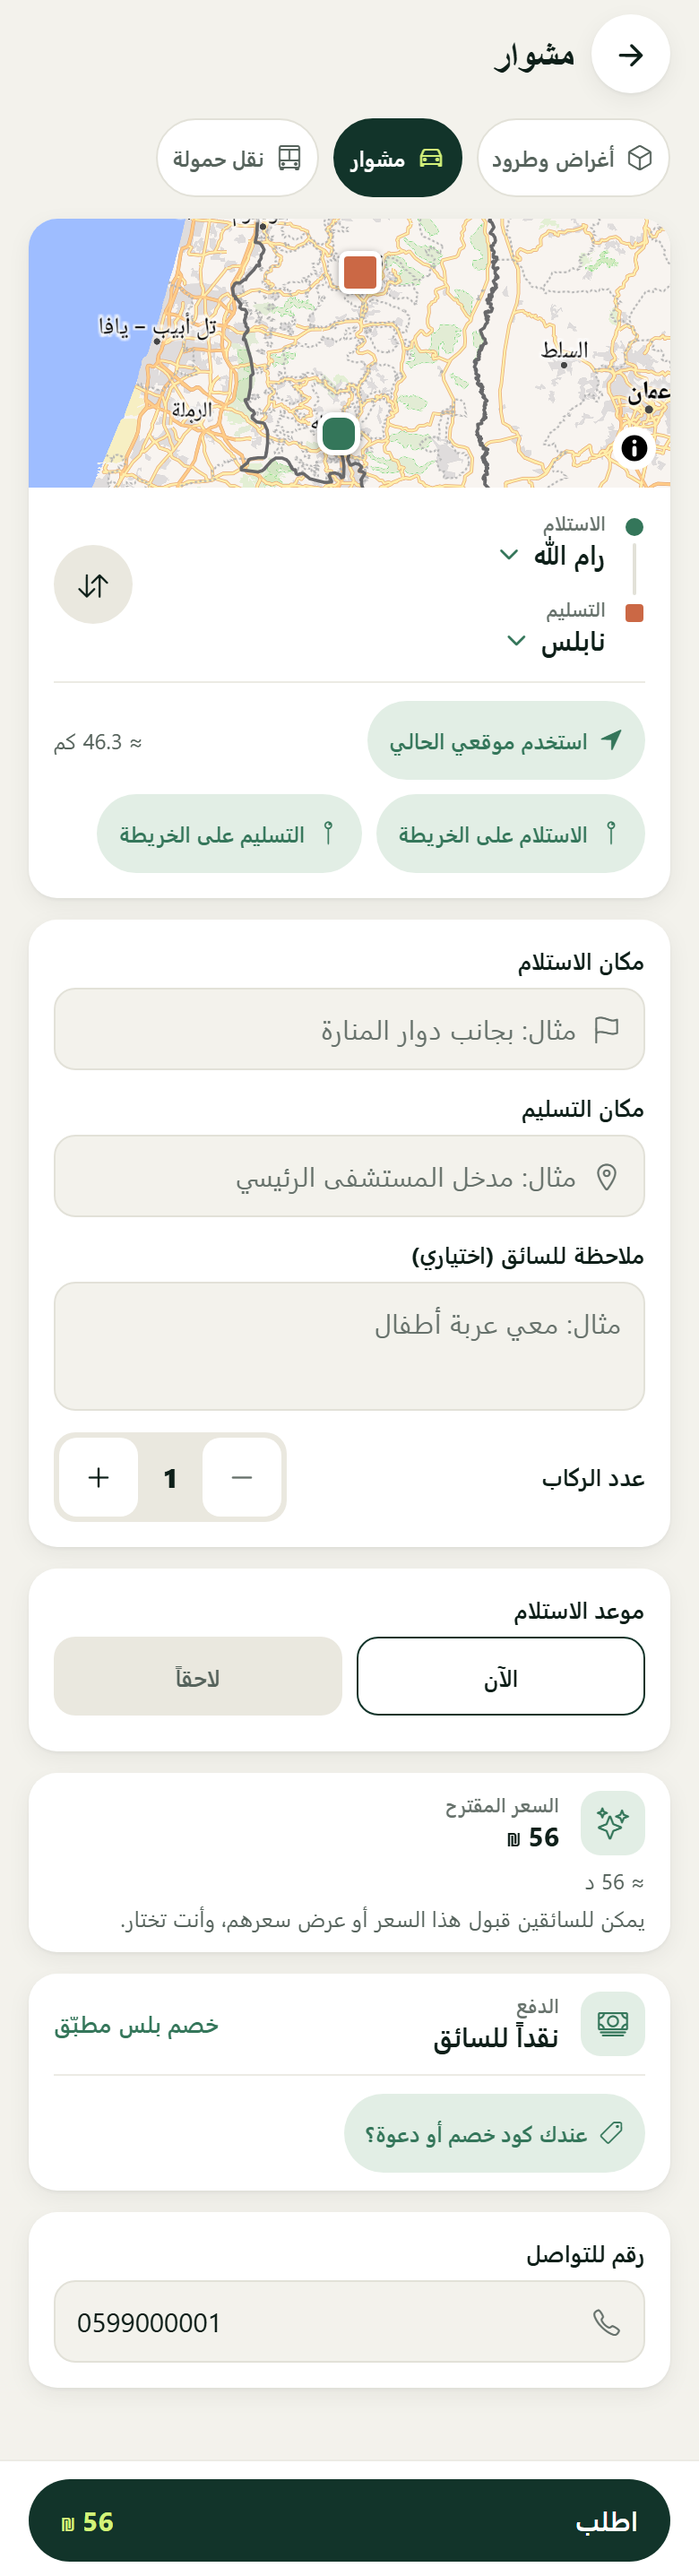
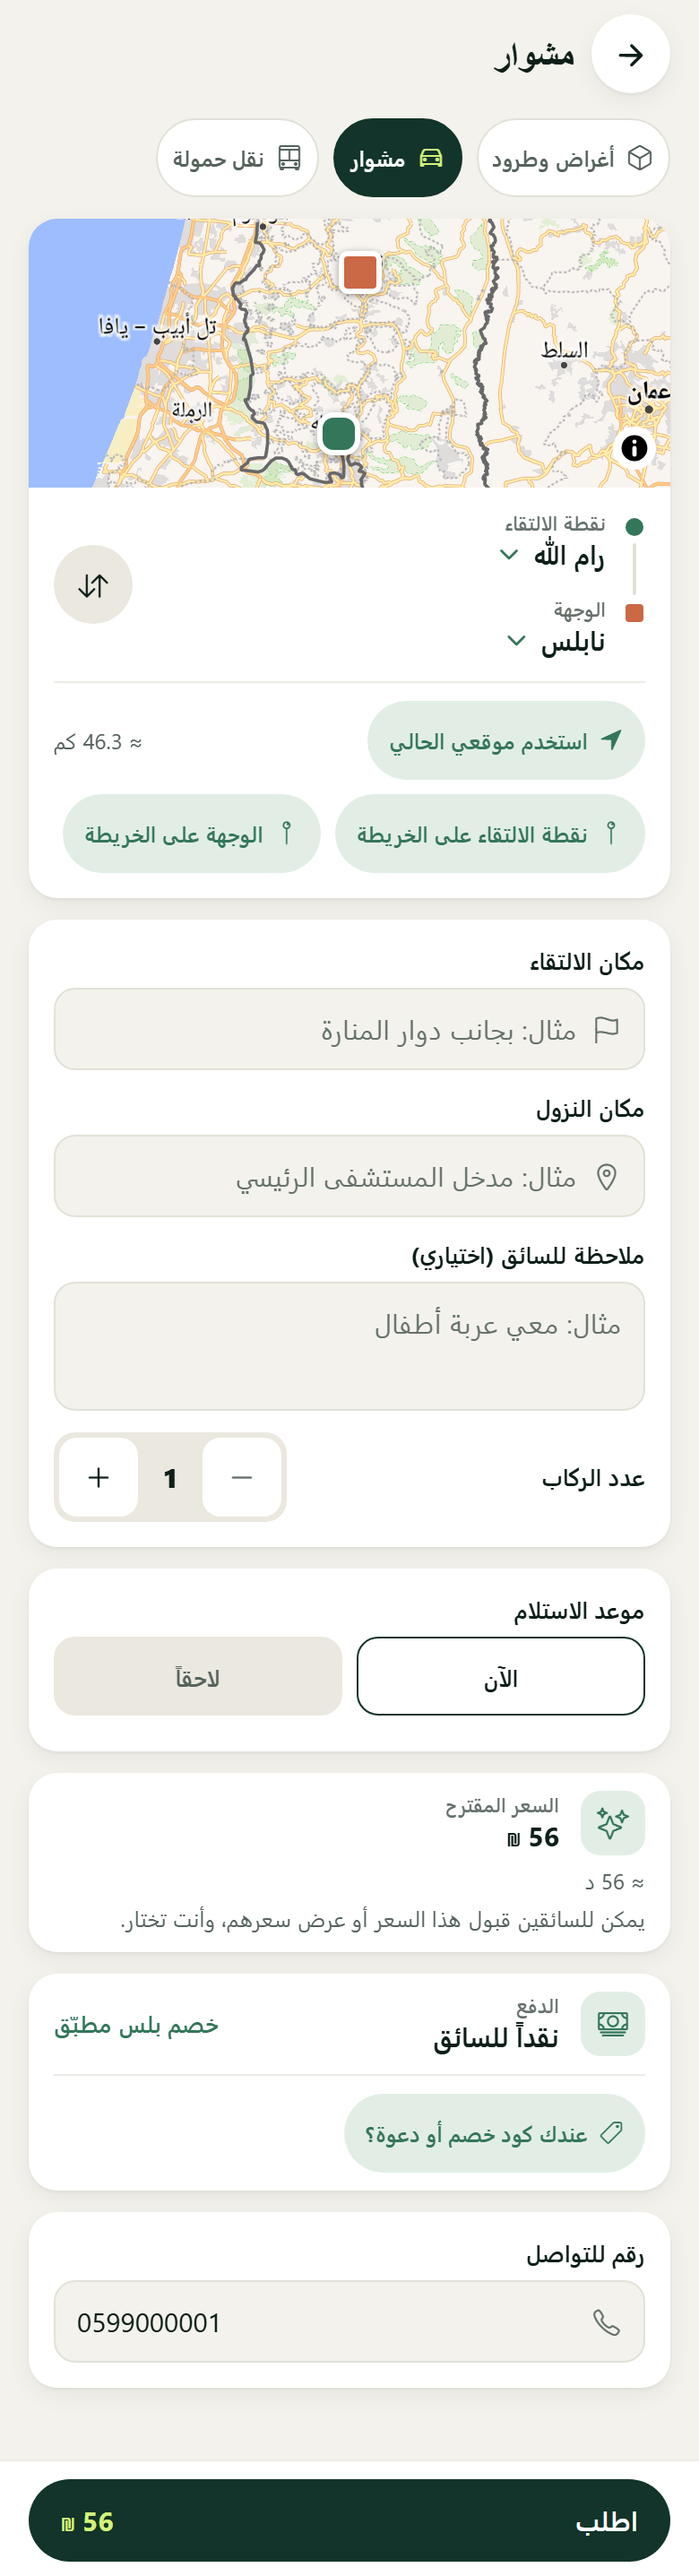
Rides name their ends as a meeting point and destination
Progress bar, route lines, the booking form's map buttons and spot
fields now say meeting point / destination for a ride instead of
pickup / handover. The track page drops its header badge, which only
echoed the status the card heads with.

diff --git a/src/app/book.tsx b/src/app/book.tsx
@@ -22,6 +22,8 @@ export default function Book() {
   const { c, language, money, err, row, rtl } = useCopy();
   const { time } = useFormat();
   const [service, setService] = useState<Service>(params.service === 'ride' || params.service === 'freight' ? params.service : 'parcel');
+  // a ride meets its passenger and drops them off: its place words differ from a parcel's
+  const word = (k: 'pickupNote' | 'dropoffNote' | 'pickupOnMap' | 'dropoffOnMap') => service === 'ride' ? c[`${k}_ride` as const] : c[k];
   const [pickupCity, setPickupCity] = useState<CityId>(isCity(params.from) ? params.from : 'ramallah');
   const [dropoffCity, setDropoffCity] = useState<CityId>(isCity(params.to) ? params.to : 'nablus');
   const [pickupPoint, setPickupPoint] = useState<Point | null>(null);
@@ -277,7 +279,7 @@ export default function Book() {
           <RouteCheckpoints avoids={preview?.avoids ?? []} through={preview?.through ?? []} />
         </View>
         <View style={rtl ? { paddingLeft: 48 } : { paddingRight: 48 }}>
-          <RouteLine from={city(pickupCity)[language]} to={city(dropoffCity)[language]} onFrom={locked ? undefined : () => setPicker('pickup')} onTo={locked ? undefined : () => setPicker('dropoff')} />
+          <RouteLine from={city(pickupCity)[language]} to={city(dropoffCity)[language]} onFrom={locked ? undefined : () => setPicker('pickup')} onTo={locked ? undefined : () => setPicker('dropoff')} ride={service === 'ride'} />
           <View style={[styles.swap, rtl ? { left: 0 } : { right: 0 }]}>
             <IconButton icon="swap-vertical" label={c.swap} tone="muted" disabled={locked}
               onPress={() => { haptic.tap(); setPickupCity(dropoffCity); setDropoffCity(pickupCity); setPickupPoint(dropoffPoint); setDropoffPoint(pickupPoint); }} />
@@ -295,7 +297,7 @@ export default function Book() {
         {canPin && <Row gap={8} style={{ marginTop: 8, flexWrap: 'wrap' }}>
           {(['pickup', 'dropoff'] as const).map(which => {
             const set = which === 'pickup' ? pickupPoint : dropoffPoint;
-            const label = which === 'pickup' ? c.pickupOnMap : c.dropoffOnMap;
+            const label = word(which === 'pickup' ? 'pickupOnMap' : 'dropoffOnMap');
             return <Press key={which} accessibilityLabel={label} disabled={locked} onPress={() => { haptic.tap(); setLocationError(''); setPinFor(which); }}>
               <Row gap={6} style={styles.chip}>
                 <Ionicons name={set ? 'checkmark-circle' : 'pin-outline'} size={14} color={palette.olive} />
@@ -315,9 +317,9 @@ export default function Book() {
 
 
       <Card>
-        <Field label={c.pickupNote} icon="flag-outline" value={pickupNote} onChangeText={edit('pickupNote', setPickupNote)} placeholder={c.pickupHint} error={invalid.pickupNote} disabled={locked} maxLength={200} />
+        <Field label={word('pickupNote')} icon="flag-outline" value={pickupNote} onChangeText={edit('pickupNote', setPickupNote)} placeholder={c.pickupHint} error={invalid.pickupNote} disabled={locked} maxLength={200} />
         {isCustomer && !locked && <SavePlace city={pickupCity} note={pickupNote} saved={places.saved} onSave={savePlace} />}
-        <Field label={c.dropoffNote} icon="location-outline" value={dropoffNote} onChangeText={edit('dropoffNote', setDropoffNote)} placeholder={c.dropoffHint} error={invalid.dropoffNote} disabled={locked} maxLength={200} />
+        <Field label={word('dropoffNote')} icon="location-outline" value={dropoffNote} onChangeText={edit('dropoffNote', setDropoffNote)} placeholder={c.dropoffHint} error={invalid.dropoffNote} disabled={locked} maxLength={200} />
         {isCustomer && !locked && <SavePlace city={dropoffCity} note={dropoffNote} saved={places.saved} onSave={savePlace} />}
         {service !== 'ride' && <>
           <Field label={c.recipientPhone} icon="call-outline" value={recipientPhone} onChangeText={edit('recipientPhone', setRecipientPhone)} placeholder={c.recipientPhoneHint}
@@ -414,7 +416,7 @@ export default function Book() {
       <ErrorText>{error}</ErrorText>
     </Screen>
 
-    {pinFor && <PinSheet title={pinFor === 'pickup' ? c.pickupOnMap : c.dropoffOnMap}
+    {pinFor && <PinSheet title={word(pinFor === 'pickup' ? 'pickupOnMap' : 'dropoffOnMap')}
       start={(pinFor === 'pickup' ? pickupPoint : dropoffPoint) ?? city(pinFor === 'pickup' ? pickupCity : dropoffCity)}
       onClose={() => setPinFor(null)} onConfirm={point => {
         const near = nearestCity(point);
@@ -426,7 +428,7 @@ export default function Book() {
         setPinFor(null);
       }} />}
 
-    <CityPicker open={picker !== null && !locked} title={picker === 'pickup' ? c.pickup : c.dropoff} selected={picker === 'pickup' ? pickupCity : dropoffCity}
+    <CityPicker open={picker !== null && !locked} title={service === 'ride' ? (picker === 'pickup' ? c.pickup_ride : c.dropoff_ride) : picker === 'pickup' ? c.pickup : c.dropoff} selected={picker === 'pickup' ? pickupCity : dropoffCity}
       places={places} onForget={id => confirm(c.forgetPlaceConfirm, () => api<Places>(`/me/places/${id}`, undefined, 'DELETE').then(setPlaces)
         .catch(e => { setPicker(null); setError(err(e)); }), c.forgetPlace, c.no)} // the sheet would hide the error
       onPlace={(id, note) => {

diff --git a/src/app/track/[token].tsx b/src/app/track/[token].tsx
@@ -7,9 +7,9 @@ import { useApi } from '../../api';
 import { locationState } from '../../location-state';
 import { etaRange } from '../../map-math';
 import { city, ltr, type CityId, type OrderStatus, type Service, type Vehicle } from '../../model';
-import { RouteLine, ServiceIcon } from '../../parts';
+import { RouteLine, ServiceIcon, statusText } from '../../parts';
 import RouteMap from '../../route-map';
-import { Badge, Button, Card, Empty, fill, Header, Loading, palette, Row, Screen, Txt, useCopy } from '../../ui';
+import { Button, Card, Empty, fill, Header, Loading, palette, Row, Screen, Txt, useCopy } from '../../ui';
 
 type Tracking = { orderCode: string; status: OrderStatus; service: Service; pickupCity: CityId; dropoffCity: CityId; updatedAt: number;
   driver: { firstName: string; vehicle: Vehicle | null } | null;
@@ -34,7 +34,7 @@ export default function TrackScreen() {
   const location = data.driverLocation && freshness && !freshness.stale ? { ...data.driverLocation, ageSeconds: freshness.ageSeconds } : null;
   const age = location?.ageSeconds ?? 0;
   return <Screen>
-    <Header title={c.trackTitle} subtitle={ltr(data.orderCode)} right={<Badge label={c[data.status]} status={data.status} />} />
+    <Header title={c.trackTitle} subtitle={ltr(data.orderCode)} />{/* the card below heads with the status; a header badge only echoed it */}
     <View style={{ borderRadius: 16, overflow: 'hidden', marginBottom: 12 }}>
       <RouteMap pickup={from} dropoff={to} focus={data.status === 'in_transit' ? 'dropoff' : 'pickup'} pickupTitle={from[language]} dropoffTitle={to[language]}
         driver={location} driverTitle={data.driver?.firstName} road={etaData?.road} approach={location ? etaData?.approach : null} />
@@ -42,9 +42,9 @@ export default function TrackScreen() {
     <Card>
       <Row gap={10} style={{ marginBottom: 10 }}>
         <ServiceIcon service={data.service} size={28} />
-        <Txt variant="h2" style={{ flex: 1 }}>{c[data.status]}</Txt>
+        <Txt variant="h2" style={{ flex: 1 }}>{statusText(c, data)}</Txt>
       </Row>
-      <RouteLine from={from[language]} to={to[language]} />
+      <RouteLine from={from[language]} to={to[language]} ride={data.service === 'ride'} />
       {data.driver && <Txt style={{ marginTop: 10 }}>{data.driver.vehicle ? `${data.driver.firstName} · ${c[data.driver.vehicle]}` : data.driver.firstName}</Txt>}
       {location && eta != null && <Txt variant="title" style={{ marginTop: 10 }}>{fill(data.status === 'in_transit'
         ? delayed ? c.etaToDropoffSlow : c.etaToDropoff

diff --git a/src/copy.ts b/src/copy.ts
@@ -146,6 +146,8 @@ const ar = {
   in_transit: 'في الطريق للتسليم',
   completed: 'تم التوصيل',
   // a ride carries people: its trip states read as a trip, not a delivery (statusText in parts.tsx)
+  assigned_ride: 'السائق في الطريق لنقطة الالتقاء',
+  at_pickup_ride: 'السائق عند نقطة الالتقاء',
   in_transit_ride: 'في الطريق إلى الوجهة',
   completed_ride: 'انتهت الرحلة',
   cancelled: 'ملغي',
@@ -575,6 +577,12 @@ const ar = {
   tripProgress: 'مراحل الطلب',
   pickup: 'الاستلام',
   dropoff: 'التسليم',
+  pickup_ride: 'نقطة الالتقاء', // a passenger is met, not received or handed over
+  dropoff_ride: 'الوجهة',
+  pickupNote_ride: 'مكان الالتقاء',
+  dropoffNote_ride: 'مكان النزول',
+  pickupOnMap_ride: 'نقطة الالتقاء على الخريطة',
+  dropoffOnMap_ride: 'الوجهة على الخريطة',
   earnLabel: 'حصّتك',
   earningsNote: 'مبالغ محسوبة للطلبات المكتملة. التحصيل والدفع غير مؤكّدين هنا.',
   // errors
@@ -791,6 +799,8 @@ const en: Copy = {
   at_pickup: 'Driver at pickup',
   in_transit: 'On the way',
   completed: 'Delivered',
+  assigned_ride: 'Driver heading to pickup',
+  at_pickup_ride: 'Driver at pickup',
   in_transit_ride: 'On the way',
   completed_ride: 'Trip completed',
   cancelled: 'Cancelled',
@@ -1207,6 +1217,12 @@ const en: Copy = {
   tripProgress: 'Order progress',
   pickup: 'Pickup',
   dropoff: 'Drop-off',
+  pickup_ride: 'Pickup',
+  dropoff_ride: 'Destination',
+  pickupNote_ride: 'Meeting spot',
+  dropoffNote_ride: 'Drop-off spot',
+  pickupOnMap_ride: 'Pickup on map',
+  dropoffOnMap_ride: 'Destination on map',
   earnLabel: 'Your share',
   earningsNote: 'Calculated for completed jobs. Collection and payout are not confirmed here.',
   err_network: 'Can’t reach the server. Check your connection.',

diff --git a/src/app/order/[id].tsx b/src/app/order/[id].tsx
@@ -224,8 +224,8 @@ export default function OrderScreen() {
           {steps.map((s, i) => <View key={s} style={[styles.segment, i <= step && { backgroundColor: palette.olive }]} />)}
         </View>
         <Row style={{ justifyContent: 'space-between', marginTop: 6 }}>
-          <Txt variant="micro">{c.pickup}</Txt>
-          <Txt variant="micro">{c.dropoff}</Txt>
+          <Txt variant="micro">{order.service === 'ride' ? c.pickup_ride : c.pickup}</Txt>
+          <Txt variant="micro">{order.service === 'ride' ? c.dropoff_ride : c.dropoff}</Txt>
         </Row>
         {next && <Txt variant="caption" style={{ marginTop: 10 }}>{next}</Txt>}
         {order.safetyHold && order.safetyReport?.status !== 'open' && <View accessibilityLiveRegion="polite">
@@ -294,7 +294,7 @@ export default function OrderScreen() {
 
     <Appear index={5}>
       <Card>
-        <RouteLine from={from[language]} to={to[language]} fromNote={order.pickupNote} toNote={order.dropoffNote} />
+        <RouteLine from={from[language]} to={to[language]} fromNote={order.pickupNote} toNote={order.dropoffNote} ride={order.service === 'ride'} />
         <View style={styles.divider}>
           {!!order.detail && <Detail label={c.details} value={order.detail} />}
           <Detail label={order.service === 'ride' ? c.passengers : c.size} value={order.service === 'ride' ? order.option : c[order.option as 'small']} />

diff --git a/src/parts.tsx b/src/parts.tsx
@@ -38,8 +38,8 @@ export function ServiceIcon({ service, size = 40 }: { service: Service; size?: n
 }
 
 // Pickup (olive dot) joined to drop-off (clay square): the route spine used on booking, trip and job screens.
-export function RouteLine({ from, to, fromNote, toNote, onFrom, onTo }: {
-  from: string; to: string; fromNote?: string; toNote?: string; onFrom?: () => void; onTo?: () => void;
+export function RouteLine({ from, to, fromNote, toNote, onFrom, onTo, ride }: {
+  from: string; to: string; fromNote?: string; toNote?: string; onFrom?: () => void; onTo?: () => void; ride?: boolean;
 }) {
   const { c, row } = useCopy();
   const stop = (label: string, place: string, note: string | undefined, first: boolean, onPress?: () => void) => {
@@ -60,8 +60,8 @@ export function RouteLine({ from, to, fromNote, toNote, onFrom, onTo }: {
     return onPress ? <Press accessibilityLabel={`${label}: ${place}`} onPress={onPress}>{body}</Press> : body;
   };
   return <View>
-    {stop(c.pickup, from, fromNote, true, onFrom)}
-    {stop(c.dropoff, to, toNote, false, onTo)}
+    {stop(ride ? c.pickup_ride : c.pickup, from, fromNote, true, onFrom)}
+    {stop(ride ? c.dropoff_ride : c.dropoff, to, toNote, false, onTo)}
   </View>;
 }
 

diff --git a/src/app/driver/index.tsx b/src/app/driver/index.tsx
@@ -150,7 +150,7 @@ export default function Jobs() {
               <Ionicons name="calendar-outline" size={14} color={palette.olive} />
               <Txt variant="label" style={{ flex: 1 }}>{fill(c.pickupAt, { t: time(order.scheduledFor) })}</Txt>
             </Row>}
-            <RouteLine from={city(order.pickupCity)[language]} to={city(order.dropoffCity)[language]} fromNote={order.pickupNote} toNote={order.dropoffNote} />
+            <RouteLine from={city(order.pickupCity)[language]} to={city(order.dropoffCity)[language]} fromNote={order.pickupNote} toNote={order.dropoffNote} ride={order.service === 'ride'} />
             {!!order.detail && <Row gap={6} style={styles.note}>
               <Ionicons name="document-text-outline" size={14} color={palette.secondary} />
               <Txt variant="caption" numberOfLines={2} style={{ flex: 1 }}>{order.detail}</Txt>
